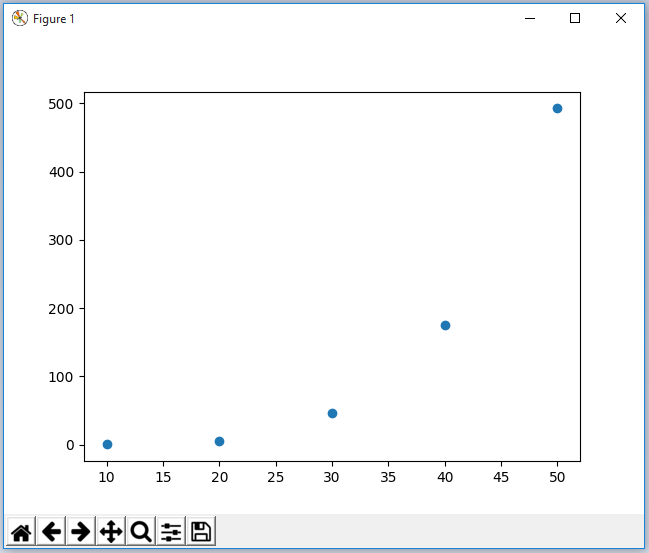
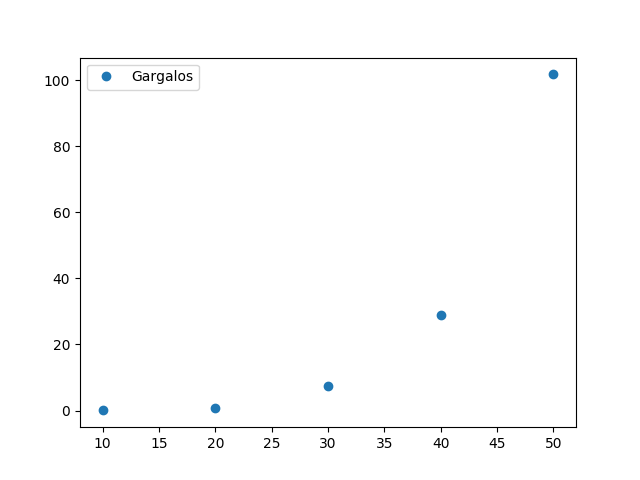
gargalo_50 adicionado

diff --git a/big_input/big_input_generator.py b/big_input/big_input_generator.py
@@ -106,9 +106,10 @@ def main():
     print('Analyzing Algorithms...')
 
     p_small = plotTC(small_path, 10, 110, 10, 2)
-    p_gargalo = plotTC(gargalo, 10, 110, 10, 2)
+    p_gargalo = plotTC(gargalo, 10, 60, 10, 2)
     pyplot.legend([p_small, p_gargalo,], ['Caminho Mais Curto', 'Gargalos', ])
     # pyplot.legend([p_small, ], ['Caminho Mais Curto', ])
+    # pyplot.legend([p_gargalo, ], ['Gargalos', ])
 
     # show plot
     pyplot.show()
